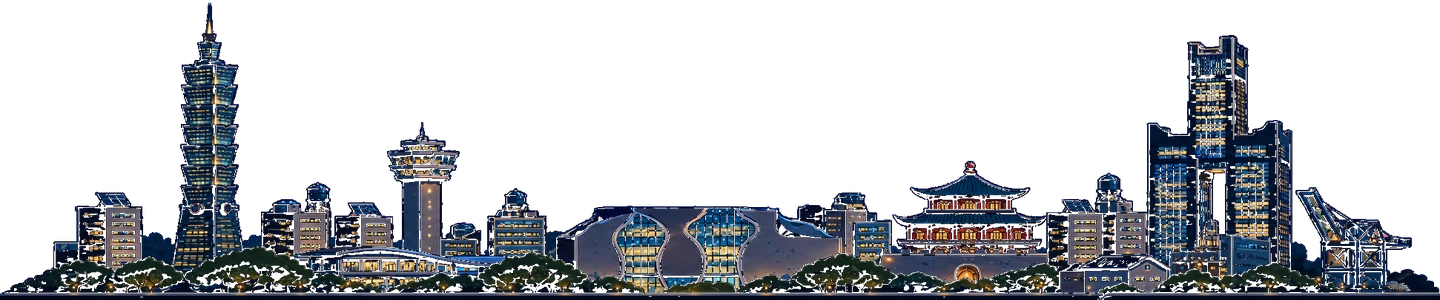
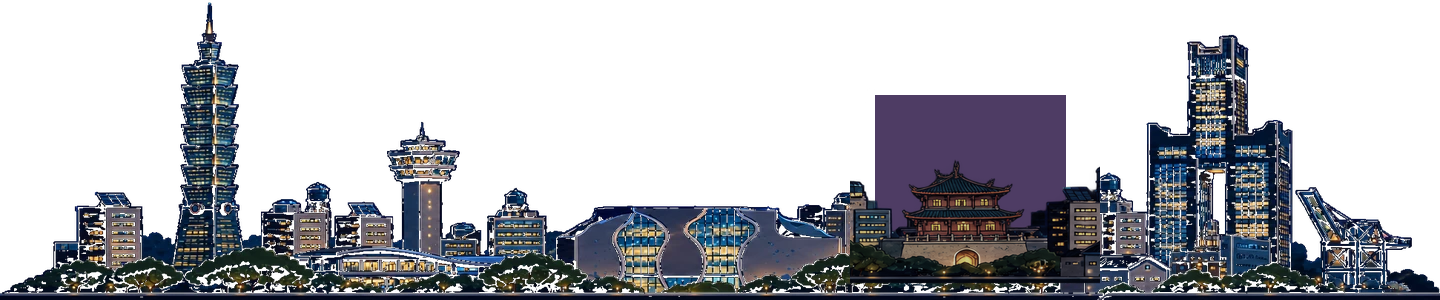
fix(site): refine skyline landmark treatment

Changed region(s): [[0.5625, 0.3, 0.7812, 0.96]]

diff --git a/progress.md b/progress.md
@@ -120,6 +120,12 @@ Slogan:「面對城市的下一個十年，六都市長準備好了嗎？」
 - 公開驗證：公開網址 `https://litostswirrl.github.io/six-counties/?rev=422734c` 的 1200px 與 390px 畫面均確認兩張圖完整載入，顯示高度分別為 250px 與 81.25px，沒有水平溢出；首頁米色與頁尾深紫色均正確透出透明背景。
 - Next：等待 Joseph 指定下一個明確範圍；正式團體資料到位後，人工確認數量與完整名稱。
 
+## Phase 10 天際線公開版視覺比對與臺南地標修正（本機驗證完成，待公開部署，2026-09-01）
+- What：將目前公開版 `3432728` 的日間與夜間天際線作為比對基準，確認這次整張重生成版本的建築確實較鬆、細節較軟，且赤崁樓的磚紅色過於突出。保留公開版整體構圖、北到南順序、建築尺度、屋頂元素與清晰度，只以影像生成結果替換臺南段的歷史建築，並將日間與夜間的臺南地標色彩各自調低飽和度。
+- Why：使用相同尺寸、相同背景的並排視覺比對後，問題不只是測試視窗捲動位置；整張重生成圖在整理成網站固定橫幅時，建築高度優勢消失，且全圖細節受到重新繪製影響。局部替換能保留目前公開版已驗證的比例與畫質，同時讓臺南有可辨識的赤崁樓示例。
+- 驗證：`npm run test` 38 項通過；`npm run build` 通過，僅有既有字型路徑警告；`git diff --check` 通過；本機 1200px 與 390px 檢查確認日間、夜間圖片均為 `1440×300` 原始尺寸，桌面為 `1200×250`、手機為 `390×81.25`，沒有水平溢出。
+- Next：提交並推送 `main`，確認 GitHub Actions 與公開網址，再以公開網址重新比對桌面與手機畫面。
+
 ## 待決問題（提問清單草稿）
 - 部署位置與網域、與淨零觀測站的關係
 - 簽署／連署資料更新機制（10月記者會前後要更新，靜態 rebuild 或接 Google Sheet）

diff --git a/six-counties-checkpoints.md b/six-counties-checkpoints.md
@@ -13,6 +13,7 @@
 - **Phase 7 -- 回到圖檔天際線並修正背景與比例**：完成（2026-08-31）
 - **Phase 8 -- 天際線建物比例第二次修正**：完成（2026-08-31）
 - **Phase 9 -- 天際線建築高度第三次修正**：完成（2026-08-31）
+- **Phase 10 -- 公開版視覺比對與臺南地標修正**：本機完成，待公開部署（2026-09-01）
 
 ## 共通規則
 
@@ -116,6 +117,13 @@
 - 公開頁面在 1200px 與 390px 均確認日間與夜間圖檔完整載入，原始尺寸為 `1440×300`，實際顯示高度分別為 250px 與 81.25px；首頁與頁尾各一張，沒有水平溢出。
 - 公開頁面讀回的首頁背景為米色，頁尾背景為深紫色；兩張透明圖檔均能融入對應區塊。
 - 下一階段尚未決定，維持等待 Joseph 指定範圍。
+
+## Phase 10 本機完成紀錄
+
+- 以目前公開版 `3432728` 作為同尺寸視覺比對基準，確認整張重新生成版本的建築比例沒有改善到可接受程度，細節也較鬆；赤崁樓的磚紅色在整體色調中過於突出。
+- 保留公開版日間與夜間天際線的整體構圖、北到南地標順序、建築尺度與屋頂配置，只以影像生成結果替換臺南段歷史建築；日間與夜間的臺南地標均調整為較低飽和的磚土色，避免單一建物搶走視覺重心。
+- 本機 `npm run test` 38 項通過、`npm run build` 通過；`git diff --check` 通過；1200px 與 390px 檢查確認兩張圖均為 `1440×300`，實際高度分別為 250px 與 81.25px，沒有水平溢出。
+- 部署與公開網址驗證待完成。
 
 ## Phase 5 Resume Prompt
 
